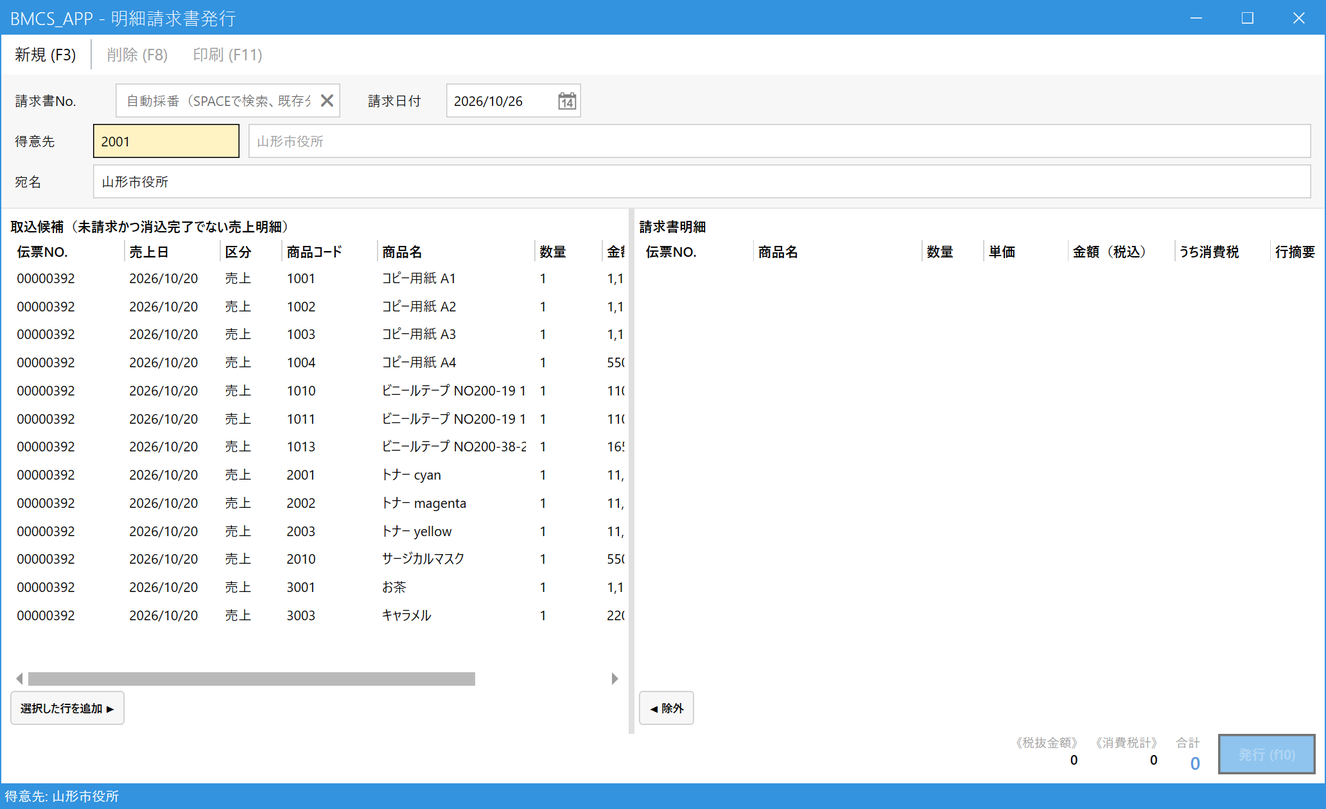
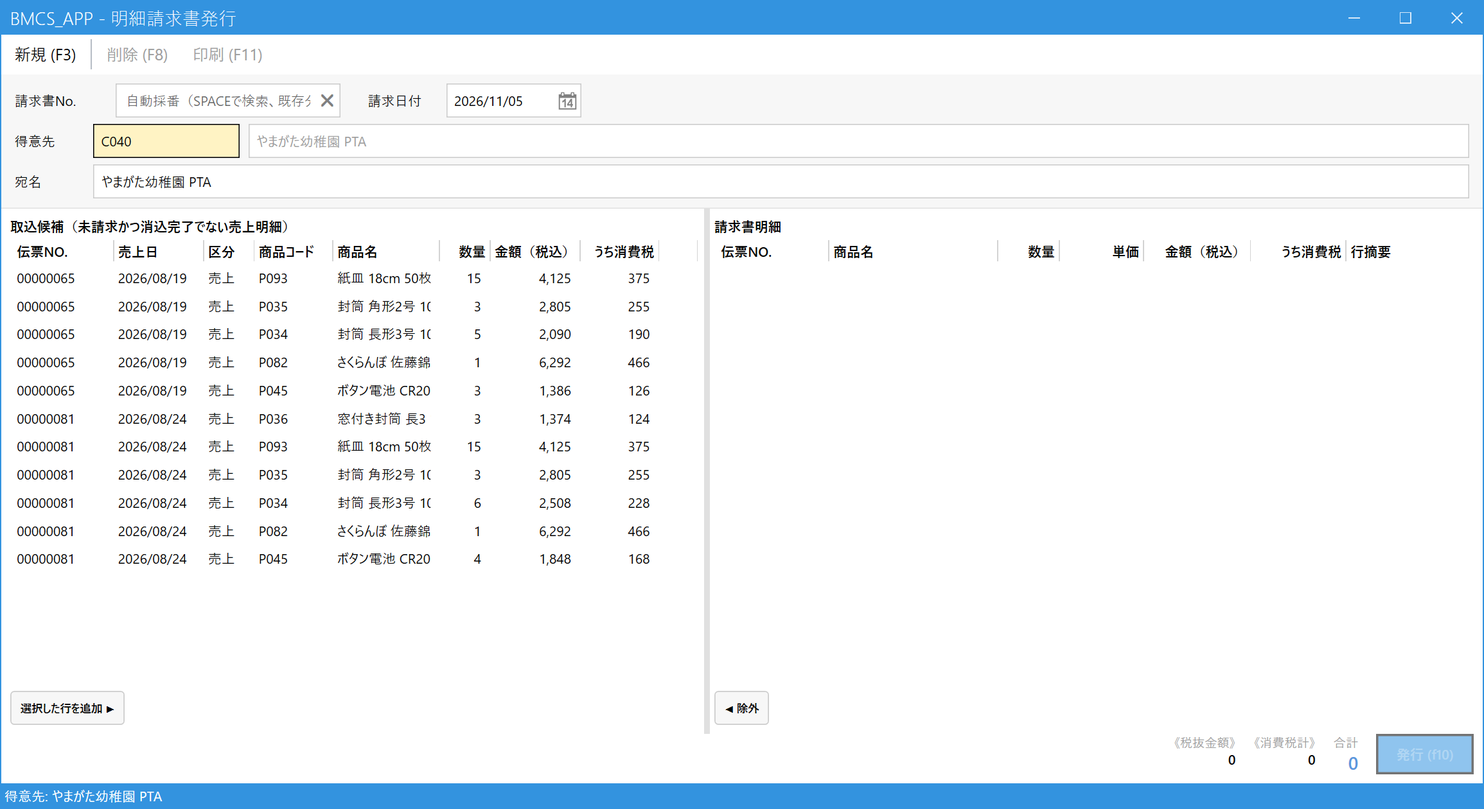
その他の一覧画面でも数字の列を右詰にする
締め解除処理、明細請求書発行、明細入金、コピー機売上CSV取込の一覧で、
数量・単価・金額・消費税・件数・残額などの数字の列を、見出しも含めて右詰にした。
右詰にすると列が画面外に出たとき数字が見えなくなるため、締め解除処理は窓幅を1080に、
明細請求書発行は窓幅を1320に広げ、左の取込候補の列幅を詰めて全列が収まるようにした。
操作マニュアルの画面画像と注釈座標も合わせた。

diff --git a/src/bmcs_app/Views/Receipt/DetailReceiptEntryWindow.xaml b/src/bmcs_app/Views/Receipt/DetailReceiptEntryWindow.xaml
@@ -223,8 +223,20 @@
                                     <GridView>
                                         <GridViewColumn Header="伝票No." Width="110" DisplayMemberBinding="{Binding SalesSlipNumber}" />
                                         <GridViewColumn Header="売上日" Width="85" DisplayMemberBinding="{Binding SlipDate, StringFormat={}{0:yyyy/MM/dd}}" />
-                                        <GridViewColumn Header="件数" Width="55" DisplayMemberBinding="{Binding LineCount}" />
-                                        <GridViewColumn Header="残額" Width="90" DisplayMemberBinding="{Binding TotalAmount, StringFormat={}{0:N0}}" />
+                                        <GridViewColumn Header="件数" Width="55" HeaderContainerStyle="{StaticResource RightAlignedColumnHeaderStyle}">
+                                            <GridViewColumn.CellTemplate>
+                                                <DataTemplate>
+                                                    <TextBlock Text="{Binding LineCount}" HorizontalAlignment="Right" />
+                                                </DataTemplate>
+                                            </GridViewColumn.CellTemplate>
+                                        </GridViewColumn>
+                                        <GridViewColumn Header="残額" Width="90" HeaderContainerStyle="{StaticResource RightAlignedColumnHeaderStyle}">
+                                            <GridViewColumn.CellTemplate>
+                                                <DataTemplate>
+                                                    <TextBlock Text="{Binding TotalAmount, StringFormat={}{0:N0}}" HorizontalAlignment="Right" />
+                                                </DataTemplate>
+                                            </GridViewColumn.CellTemplate>
+                                        </GridViewColumn>
                                     </GridView>
                                 </ListView.View>
                             </ListView>
@@ -250,8 +262,20 @@
                                         <GridViewColumn Header="請求書No." Width="110" DisplayMemberBinding="{Binding DetailInvoiceNumber}" />
                                         <GridViewColumn Header="請求日" Width="85" DisplayMemberBinding="{Binding IssueDate, StringFormat={}{0:yyyy/MM/dd}}" />
                                         <GridViewColumn Header="宛名" Width="140" DisplayMemberBinding="{Binding AddresseeName}" />
-                                        <GridViewColumn Header="件数" Width="50" DisplayMemberBinding="{Binding LineCount}" />
-                                        <GridViewColumn Header="金額" Width="90" DisplayMemberBinding="{Binding TotalAmount, StringFormat={}{0:N0}}" />
+                                        <GridViewColumn Header="件数" Width="50" HeaderContainerStyle="{StaticResource RightAlignedColumnHeaderStyle}">
+                                            <GridViewColumn.CellTemplate>
+                                                <DataTemplate>
+                                                    <TextBlock Text="{Binding LineCount}" HorizontalAlignment="Right" />
+                                                </DataTemplate>
+                                            </GridViewColumn.CellTemplate>
+                                        </GridViewColumn>
+                                        <GridViewColumn Header="金額" Width="90" HeaderContainerStyle="{StaticResource RightAlignedColumnHeaderStyle}">
+                                            <GridViewColumn.CellTemplate>
+                                                <DataTemplate>
+                                                    <TextBlock Text="{Binding TotalAmount, StringFormat={}{0:N0}}" HorizontalAlignment="Right" />
+                                                </DataTemplate>
+                                            </GridViewColumn.CellTemplate>
+                                        </GridViewColumn>
                                     </GridView>
                                 </ListView.View>
                             </ListView>
@@ -284,9 +308,27 @@
                             <GridView>
                                 <GridViewColumn Header="商品コード" Width="90" DisplayMemberBinding="{Binding ProductCode}" />
                                 <GridViewColumn Header="商品名" Width="140" DisplayMemberBinding="{Binding ProductName}" />
-                                <GridViewColumn Header="数量" Width="55" DisplayMemberBinding="{Binding Quantity, StringFormat={}{0:N0}}" />
-                                <GridViewColumn Header="単価" Width="70" DisplayMemberBinding="{Binding UnitPrice, StringFormat={}{0:N0}}" />
-                                <GridViewColumn Header="残額" Width="90" DisplayMemberBinding="{Binding RemainingAmount, StringFormat={}{0:N0}}" />
+                                <GridViewColumn Header="数量" Width="55" HeaderContainerStyle="{StaticResource RightAlignedColumnHeaderStyle}">
+                                    <GridViewColumn.CellTemplate>
+                                        <DataTemplate>
+                                            <TextBlock Text="{Binding Quantity, StringFormat={}{0:N0}}" HorizontalAlignment="Right" />
+                                        </DataTemplate>
+                                    </GridViewColumn.CellTemplate>
+                                </GridViewColumn>
+                                <GridViewColumn Header="単価" Width="70" HeaderContainerStyle="{StaticResource RightAlignedColumnHeaderStyle}">
+                                    <GridViewColumn.CellTemplate>
+                                        <DataTemplate>
+                                            <TextBlock Text="{Binding UnitPrice, StringFormat={}{0:N0}}" HorizontalAlignment="Right" />
+                                        </DataTemplate>
+                                    </GridViewColumn.CellTemplate>
+                                </GridViewColumn>
+                                <GridViewColumn Header="残額" Width="90" HeaderContainerStyle="{StaticResource RightAlignedColumnHeaderStyle}">
+                                    <GridViewColumn.CellTemplate>
+                                        <DataTemplate>
+                                            <TextBlock Text="{Binding RemainingAmount, StringFormat={}{0:N0}}" HorizontalAlignment="Right" />
+                                        </DataTemplate>
+                                    </GridViewColumn.CellTemplate>
+                                </GridViewColumn>
                             </GridView>
                         </ListView.View>
                     </ListView>
@@ -300,9 +342,27 @@
                             <GridView>
                                 <GridViewColumn Header="商品コード" Width="90" DisplayMemberBinding="{Binding ProductCode}" />
                                 <GridViewColumn Header="商品名" Width="140" DisplayMemberBinding="{Binding ProductName}" />
-                                <GridViewColumn Header="数量" Width="55" DisplayMemberBinding="{Binding Quantity, StringFormat={}{0:N0}}" />
-                                <GridViewColumn Header="単価" Width="70" DisplayMemberBinding="{Binding UnitPrice, StringFormat={}{0:N0}}" />
-                                <GridViewColumn Header="金額（税込）" Width="95" DisplayMemberBinding="{Binding Amount, StringFormat={}{0:N0}}" />
+                                <GridViewColumn Header="数量" Width="55" HeaderContainerStyle="{StaticResource RightAlignedColumnHeaderStyle}">
+                                    <GridViewColumn.CellTemplate>
+                                        <DataTemplate>
+                                            <TextBlock Text="{Binding Quantity, StringFormat={}{0:N0}}" HorizontalAlignment="Right" />
+                                        </DataTemplate>
+                                    </GridViewColumn.CellTemplate>
+                                </GridViewColumn>
+                                <GridViewColumn Header="単価" Width="70" HeaderContainerStyle="{StaticResource RightAlignedColumnHeaderStyle}">
+                                    <GridViewColumn.CellTemplate>
+                                        <DataTemplate>
+                                            <TextBlock Text="{Binding UnitPrice, StringFormat={}{0:N0}}" HorizontalAlignment="Right" />
+                                        </DataTemplate>
+                                    </GridViewColumn.CellTemplate>
+                                </GridViewColumn>
+                                <GridViewColumn Header="金額（税込）" Width="95" HeaderContainerStyle="{StaticResource RightAlignedColumnHeaderStyle}">
+                                    <GridViewColumn.CellTemplate>
+                                        <DataTemplate>
+                                            <TextBlock Text="{Binding Amount, StringFormat={}{0:N0}}" HorizontalAlignment="Right" />
+                                        </DataTemplate>
+                                    </GridViewColumn.CellTemplate>
+                                </GridViewColumn>
                             </GridView>
                         </ListView.View>
                     </ListView>

diff --git a/src/bmcs_app/Views/Billing/DetailInvoiceIssueWindow.xaml b/src/bmcs_app/Views/Billing/DetailInvoiceIssueWindow.xaml
@@ -4,7 +4,7 @@
                  xmlns:mah="http://metro.mahapps.com/winfx/xaml/controls"
                  xmlns:beh="clr-namespace:bmcs_app.Behaviors"
                  Title="bmcs_app - 明細請求書発行"
-                 Height="720" Width="1180"
+                 Height="720" Width="1320"
                  WindowStartupLocation="CenterScreen"
                  WindowTransitionsEnabled="False">
     <!--
@@ -155,20 +155,38 @@
                           beh:RowActivationBehavior.Command="{Binding AddCandidateCommand}">
                     <ListView.View>
                         <GridView>
-                            <GridViewColumn Header="伝票No." Width="100" DisplayMemberBinding="{Binding SalesSlipNumber}" />
-                            <GridViewColumn Header="売上日" Width="85" DisplayMemberBinding="{Binding SlipDate}" />
-                            <GridViewColumn Header="区分" Width="55">
+                            <GridViewColumn Header="伝票No." Width="90" DisplayMemberBinding="{Binding SalesSlipNumber}" />
+                            <GridViewColumn Header="売上日" Width="80" DisplayMemberBinding="{Binding SlipDate}" />
+                            <GridViewColumn Header="区分" Width="45">
                                 <GridViewColumn.CellTemplate>
                                     <DataTemplate>
                                         <TextBlock Text="{Binding SlipType, Converter={StaticResource EnumDisplayConverter}}" />
                                     </DataTemplate>
                                 </GridViewColumn.CellTemplate>
                             </GridViewColumn>
-                            <GridViewColumn Header="商品コード" Width="85" DisplayMemberBinding="{Binding ProductCode}" />
-                            <GridViewColumn Header="商品名" Width="140" DisplayMemberBinding="{Binding ProductName}" />
-                            <GridViewColumn Header="数量" Width="60" DisplayMemberBinding="{Binding Quantity, StringFormat={}{0:N0}}" />
-                            <GridViewColumn Header="金額（税込）" Width="95" DisplayMemberBinding="{Binding Amount, StringFormat={}{0:N0}}" />
-                            <GridViewColumn Header="うち消費税" Width="85" DisplayMemberBinding="{Binding TaxAmount, StringFormat={}{0:N0}}" />
+                            <GridViewColumn Header="商品コード" Width="70" DisplayMemberBinding="{Binding ProductCode}" />
+                            <GridViewColumn Header="商品名" Width="95" DisplayMemberBinding="{Binding ProductName}" />
+                            <GridViewColumn Header="数量" Width="45" HeaderContainerStyle="{StaticResource RightAlignedColumnHeaderStyle}">
+                                <GridViewColumn.CellTemplate>
+                                    <DataTemplate>
+                                        <TextBlock Text="{Binding Quantity, StringFormat={}{0:N0}}" HorizontalAlignment="Right" />
+                                    </DataTemplate>
+                                </GridViewColumn.CellTemplate>
+                            </GridViewColumn>
+                            <GridViewColumn Header="金額（税込）" Width="80" HeaderContainerStyle="{StaticResource RightAlignedColumnHeaderStyle}">
+                                <GridViewColumn.CellTemplate>
+                                    <DataTemplate>
+                                        <TextBlock Text="{Binding Amount, StringFormat={}{0:N0}}" HorizontalAlignment="Right" />
+                                    </DataTemplate>
+                                </GridViewColumn.CellTemplate>
+                            </GridViewColumn>
+                            <GridViewColumn Header="うち消費税" Width="70" HeaderContainerStyle="{StaticResource RightAlignedColumnHeaderStyle}">
+                                <GridViewColumn.CellTemplate>
+                                    <DataTemplate>
+                                        <TextBlock Text="{Binding TaxAmount, StringFormat={}{0:N0}}" HorizontalAlignment="Right" />
+                                    </DataTemplate>
+                                </GridViewColumn.CellTemplate>
+                            </GridViewColumn>
                         </GridView>
                     </ListView.View>
                 </ListView>
@@ -202,10 +220,34 @@
                         <GridView>
                             <GridViewColumn Header="伝票No." Width="100" DisplayMemberBinding="{Binding SalesSlipNumber}" />
                             <GridViewColumn Header="商品名" Width="150" DisplayMemberBinding="{Binding ProductName}" />
-                            <GridViewColumn Header="数量" Width="55" DisplayMemberBinding="{Binding Quantity, StringFormat={}{0:N0}}" />
-                            <GridViewColumn Header="単価" Width="75" DisplayMemberBinding="{Binding UnitPrice, StringFormat={}{0:N0}}" />
-                            <GridViewColumn Header="金額（税込）" Width="95" DisplayMemberBinding="{Binding Amount, StringFormat={}{0:N0}}" />
-                            <GridViewColumn Header="うち消費税" Width="85" DisplayMemberBinding="{Binding TaxAmount, StringFormat={}{0:N0}}" />
+                            <GridViewColumn Header="数量" Width="55" HeaderContainerStyle="{StaticResource RightAlignedColumnHeaderStyle}">
+                                <GridViewColumn.CellTemplate>
+                                    <DataTemplate>
+                                        <TextBlock Text="{Binding Quantity, StringFormat={}{0:N0}}" HorizontalAlignment="Right" />
+                                    </DataTemplate>
+                                </GridViewColumn.CellTemplate>
+                            </GridViewColumn>
+                            <GridViewColumn Header="単価" Width="75" HeaderContainerStyle="{StaticResource RightAlignedColumnHeaderStyle}">
+                                <GridViewColumn.CellTemplate>
+                                    <DataTemplate>
+                                        <TextBlock Text="{Binding UnitPrice, StringFormat={}{0:N0}}" HorizontalAlignment="Right" />
+                                    </DataTemplate>
+                                </GridViewColumn.CellTemplate>
+                            </GridViewColumn>
+                            <GridViewColumn Header="金額（税込）" Width="95" HeaderContainerStyle="{StaticResource RightAlignedColumnHeaderStyle}">
+                                <GridViewColumn.CellTemplate>
+                                    <DataTemplate>
+                                        <TextBlock Text="{Binding Amount, StringFormat={}{0:N0}}" HorizontalAlignment="Right" />
+                                    </DataTemplate>
+                                </GridViewColumn.CellTemplate>
+                            </GridViewColumn>
+                            <GridViewColumn Header="うち消費税" Width="85" HeaderContainerStyle="{StaticResource RightAlignedColumnHeaderStyle}">
+                                <GridViewColumn.CellTemplate>
+                                    <DataTemplate>
+                                        <TextBlock Text="{Binding TaxAmount, StringFormat={}{0:N0}}" HorizontalAlignment="Right" />
+                                    </DataTemplate>
+                                </GridViewColumn.CellTemplate>
+                            </GridViewColumn>
                             <GridViewColumn Header="行摘要" Width="120" DisplayMemberBinding="{Binding LineRemarks}" />
                         </GridView>
                     </ListView.View>

diff --git a/src/bmcs_app/Views/Billing/BillingReleaseWindow.xaml b/src/bmcs_app/Views/Billing/BillingReleaseWindow.xaml
@@ -4,7 +4,7 @@
                  xmlns:mah="http://metro.mahapps.com/winfx/xaml/controls"
                  xmlns:beh="clr-namespace:bmcs_app.Behaviors"
                  Title="bmcs_app - 締め解除処理"
-                 Height="640" Width="980"
+                 Height="640" Width="1080"
                  WindowStartupLocation="CenterScreen"
                  WindowTransitionsEnabled="False">
     <!--
@@ -56,11 +56,41 @@
                         </GridViewColumn.CellTemplate>
                     </GridViewColumn>
                     <GridViewColumn Header="締め年月" Width="80" DisplayMemberBinding="{Binding ClosingYearMonth}" />
-                    <GridViewColumn Header="前回残高" Width="100" DisplayMemberBinding="{Binding PreviousBalance, StringFormat={}{0:N0}}" />
-                    <GridViewColumn Header="入金額" Width="100" DisplayMemberBinding="{Binding ReceiptAmount, StringFormat={}{0:N0}}" />
-                    <GridViewColumn Header="売上額" Width="100" DisplayMemberBinding="{Binding SalesAmount, StringFormat={}{0:N0}}" />
-                    <GridViewColumn Header="消費税" Width="90" DisplayMemberBinding="{Binding TaxAmount, StringFormat={}{0:N0}}" />
-                    <GridViewColumn Header="今回請求額" Width="110" DisplayMemberBinding="{Binding CurrentBillingAmount, StringFormat={}{0:N0}}" />
+                    <GridViewColumn Header="前回残高" Width="100" HeaderContainerStyle="{StaticResource RightAlignedColumnHeaderStyle}">
+                        <GridViewColumn.CellTemplate>
+                            <DataTemplate>
+                                <TextBlock Text="{Binding PreviousBalance, StringFormat={}{0:N0}}" HorizontalAlignment="Right" />
+                            </DataTemplate>
+                        </GridViewColumn.CellTemplate>
+                    </GridViewColumn>
+                    <GridViewColumn Header="入金額" Width="100" HeaderContainerStyle="{StaticResource RightAlignedColumnHeaderStyle}">
+                        <GridViewColumn.CellTemplate>
+                            <DataTemplate>
+                                <TextBlock Text="{Binding ReceiptAmount, StringFormat={}{0:N0}}" HorizontalAlignment="Right" />
+                            </DataTemplate>
+                        </GridViewColumn.CellTemplate>
+                    </GridViewColumn>
+                    <GridViewColumn Header="売上額" Width="100" HeaderContainerStyle="{StaticResource RightAlignedColumnHeaderStyle}">
+                        <GridViewColumn.CellTemplate>
+                            <DataTemplate>
+                                <TextBlock Text="{Binding SalesAmount, StringFormat={}{0:N0}}" HorizontalAlignment="Right" />
+                            </DataTemplate>
+                        </GridViewColumn.CellTemplate>
+                    </GridViewColumn>
+                    <GridViewColumn Header="消費税" Width="90" HeaderContainerStyle="{StaticResource RightAlignedColumnHeaderStyle}">
+                        <GridViewColumn.CellTemplate>
+                            <DataTemplate>
+                                <TextBlock Text="{Binding TaxAmount, StringFormat={}{0:N0}}" HorizontalAlignment="Right" />
+                            </DataTemplate>
+                        </GridViewColumn.CellTemplate>
+                    </GridViewColumn>
+                    <GridViewColumn Header="今回請求額" Width="110" HeaderContainerStyle="{StaticResource RightAlignedColumnHeaderStyle}">
+                        <GridViewColumn.CellTemplate>
+                            <DataTemplate>
+                                <TextBlock Text="{Binding CurrentBillingAmount, StringFormat={}{0:N0}}" HorizontalAlignment="Right" />
+                            </DataTemplate>
+                        </GridViewColumn.CellTemplate>
+                    </GridViewColumn>
                     <GridViewColumn Header="確定日時" Width="130" DisplayMemberBinding="{Binding ConfirmedAt, StringFormat={}{0:yyyy/MM/dd HH:mm}}" />
                     <GridViewColumn Header="備考" Width="220" DisplayMemberBinding="{Binding BlockReason}" />
                 </GridView>

diff --git a/src/bmcs_app/Views/Sales/CopierSalesImportWindow.xaml b/src/bmcs_app/Views/Sales/CopierSalesImportWindow.xaml
@@ -55,7 +55,13 @@
             </ListView.ItemContainerStyle>
             <ListView.View>
                 <GridView>
-                    <GridViewColumn Header="行" Width="40" DisplayMemberBinding="{Binding LineNumber}" />
+                    <GridViewColumn Header="行" Width="40" HeaderContainerStyle="{StaticResource RightAlignedColumnHeaderStyle}">
+                        <GridViewColumn.CellTemplate>
+                            <DataTemplate>
+                                <TextBlock Text="{Binding LineNumber}" HorizontalAlignment="Right" />
+                            </DataTemplate>
+                        </GridViewColumn.CellTemplate>
+                    </GridViewColumn>
                     <GridViewColumn Header="機番" Width="90" DisplayMemberBinding="{Binding MachineNo}" />
                     <GridViewColumn Header="得意先コード" Width="100" DisplayMemberBinding="{Binding CustomerCode}" />
                     <GridViewColumn Header="得意先名" Width="160" DisplayMemberBinding="{Binding CustomerName}" />
@@ -68,7 +74,13 @@
                             </DataTemplate>
                         </GridViewColumn.CellTemplate>
                     </GridViewColumn>
-                    <GridViewColumn Header="合算行数" Width="70" DisplayMemberBinding="{Binding MergedLineCount}" />
+                    <GridViewColumn Header="合算行数" Width="70" HeaderContainerStyle="{StaticResource RightAlignedColumnHeaderStyle}">
+                        <GridViewColumn.CellTemplate>
+                            <DataTemplate>
+                                <TextBlock Text="{Binding MergedLineCount}" HorizontalAlignment="Right" />
+                            </DataTemplate>
+                        </GridViewColumn.CellTemplate>
+                    </GridViewColumn>
                     <GridViewColumn Header="状態" Width="70">
                         <GridViewColumn.CellTemplate>
                             <DataTemplate>

diff --git a/docs/user-manual-jp/copier-csv-import.html b/docs/user-manual-jp/copier-csv-import.html
@@ -29,7 +29,7 @@
 <p>メインメニューの<b>「受注・売上」</b>の中の<b>「コピー機売上CSV取込」</b>を開き、<b>「ファイル選択」</b>を押してCSVを選びます（画面にファイルをドラッグ＆ドロップしてもかまいません）。読み込むと、取り込む前の<b>プレビュー</b>が表示されます。この時点では、まだ何も登録されていません。</p>
 <figure data-ann='[
  {"r":[30,82,145,53],"n":1},
- {"r":[1300,155,100,160],"n":2,"b":[1350,520]},
+ {"r":[1322,155,98,160],"n":2,"b":[1372,520]},
  {"r":[1423,155,110,160],"n":3,"b":[1478,520]},
  {"r":[1545,155,714,160],"n":4,"b":[1900,520]},
  {"r":[30,1012,373,28],"n":5,"b":[500,900]},
@@ -39,7 +39,7 @@
 </figure>
 <ol class="legend">
   <li><b>ファイル選択</b>：CSVを選ぶ（メーカー出力のまま、Shift-JISの形式で読めます）。</li>
-  <li><b>合算行数</b>：同じ機番・同じ締日の行は<b>1つにまとめて金額を合計</b>します。この例の「110348」は基本料の行と合わせて2行分（8,500円＋1,500円＝10,000円）です。</li>
+  <li><b>合算行数</b>：同じ機番・同じ締日の行は<b>1つにまとめて金額を合計</b>します。この例の「MX-3071-0001」は基本料の行と合わせて2行分（8,500円＋1,500円＝10,000円）です。</li>
   <li><b>状態</b>：<b>取込可</b>（緑）なら登録されます。<b>エラー</b>（赤）の行は登録されません。ほかに「取込済」「対象外（0円）」が出ることがあります。</li>
   <li><b>理由・結果</b>：エラーの理由がここに出ます。この例は、機番「999999」がコピー機マスタに登録されていません。</li>
   <li>取り込める件数と合計金額、エラーの件数のまとめです。</li>

diff --git a/docs/user-manual-jp/detail-invoice.html b/docs/user-manual-jp/detail-invoice.html
@@ -25,9 +25,9 @@
 <figure data-ann='[
  {"r":[180,130,350,53],"n":1},
  {"r":[697,132,206,49],"n":2},
- {"r":[145,193,1897,53],"n":3},
- {"r":[145,256,1897,53],"n":4,"b":[1300,340]},
- {"r":[16,339,960,740],"n":5,"b":[1500,800]}]'>
+ {"r":[145,193,2142,53],"n":3},
+ {"r":[145,256,2142,53],"n":4,"b":[1300,340]},
+ {"r":[16,339,1073,740],"n":5,"b":[1500,800]}]'>
   <div class="frame"><img src="images/dinvoice-01-candidates.png" alt="明細請求書発行画面（候補表示）"></div>
   <figcaption>得意先を選んだ直後（左に請求できる売上明細が並ぶ）</figcaption>
 </figure>
@@ -42,12 +42,12 @@
 <h2><span class="no">2.</span>請求書に載せる明細を選ぶ</h2>
 <p>左の候補から、この請求書に載せたい行を選んで<b>「選択した行を追加 ▶」</b>。右の「請求書明細」に移ります。行をダブルクリックや <kbd>Enter</kbd> でも移せます。間違えたときは、右の行を選んで<b>「◀ 除外」</b>。</p>
 <figure data-ann='[
- {"r":[16,410,960,88],"n":1,"b":[500,900]},
+ {"r":[16,410,1073,88],"n":1,"b":[500,900]},
  {"r":[16,1076,178,53],"n":2,"b":[400,1100]},
- {"r":[990,339,1060,150],"n":3,"b":[1500,700]},
- {"r":[995,1076,86,53],"n":4,"b":[1200,1100]},
- {"r":[1552,1143,320,60],"n":5,"b":[1500,1060]},
- {"r":[1897,1143,152,63],"n":6,"b":[1700,1000]}]'>
+ {"r":[1107,339,1188,160],"n":3,"b":[1617,700]},
+ {"r":[1112,1076,85,53],"n":4,"b":[1316,1100]},
+ {"r":[1797,1143,320,60],"n":5,"b":[1745,1060]},
+ {"r":[2142,1143,152,63],"n":6,"b":[1945,1000]}]'>
   <div class="frame"><img src="images/dinvoice-02-added.png" alt="明細を2行追加した状態"></div>
   <figcaption>2行を追加した状態</figcaption>
 </figure>

diff --git a/docs/user-manual-jp/billing-release.html b/docs/user-manual-jp/billing-release.html
@@ -25,7 +25,7 @@
 <figure data-ann='[
  {"r":[65,82,105,53],"n":1},
  {"r":[275,82,245,53],"n":2},
- {"r":[30,159,1650,170],"n":3,"b":[900,520]},
+ {"r":[30,159,1830,170],"n":3,"b":[900,520]},
  {"r":[548,82,166,53],"n":4,"b":[900,200]}]'>
   <div class="frame"><img src="images/brelease-01-main.png" alt="締め解除処理画面"></div>
   <figcaption>締め解除処理画面</figcaption>
